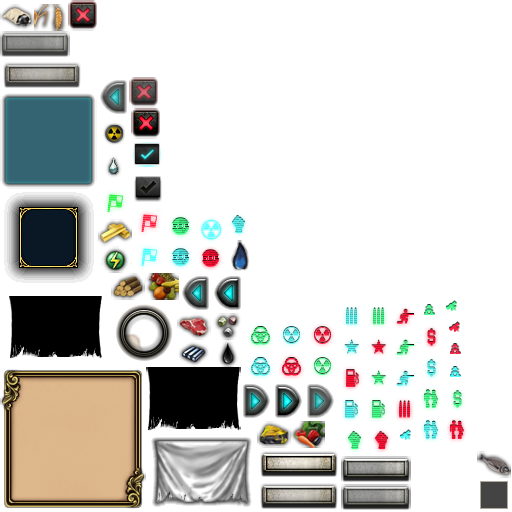
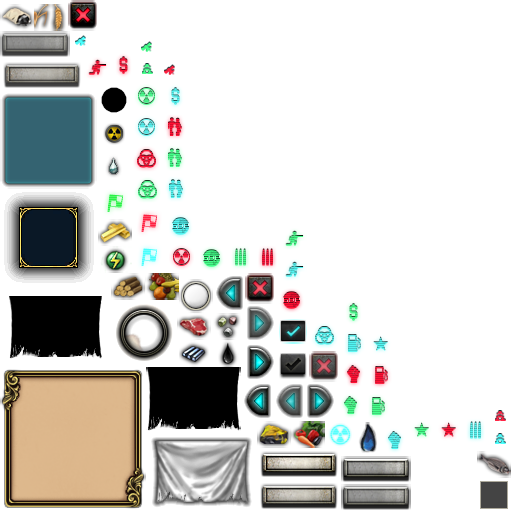
feat : new flag mini overlay
Add a new flag overlay, refresh the main atlas.

Use the new overlay in the province panel to show the countries core of
a province.

Changed region(s): [[0.1562, 0.0625, 1.0, 0.9062], [0.125, 0.0, 0.1875, 0.0938]]

diff --git a/core/src/main/java/com/populaire/projetguerrefroide/ui/ProvincePanel.java b/core/src/main/java/com/populaire/projetguerrefroide/ui/ProvincePanel.java
@@ -8,8 +8,10 @@ import com.badlogic.gdx.scenes.scene2d.ui.*;
 import com.badlogic.gdx.scenes.scene2d.utils.ClickListener;
 import com.badlogic.gdx.scenes.scene2d.utils.Drawable;
 import com.badlogic.gdx.scenes.scene2d.utils.TextureRegionDrawable;
+import com.github.tommyettinger.ds.ObjectList;
 import com.populaire.projetguerrefroide.service.LabelStylePool;
 
+import java.util.List;
 import java.util.Map;
 
 public class ProvincePanel extends Table {
@@ -27,6 +29,7 @@ public class ProvincePanel extends Table {
     private Label incomeRegion;
     private Label industryRegion;
     private FlagImage flagImage;
+    private List<FlagImage> countriesCoreFlagImages;
 
     public ProvincePanel(Skin skin, Skin skinUi, Skin skinFlags, LabelStylePool labelStylePool, Map<String, String> localisation) {
         this.skin = skin;
@@ -37,7 +40,8 @@ public class ProvincePanel extends Table {
         this.setBackground(background);
         this.setSize(background.getMinWidth(), background.getMinHeight());
         this.setHeader(skin, skinUi, labelStylePool);
-        this.setDataOverview(skin, skinUi, labelStylePool);
+        this.setDataOverview(skin, labelStylePool);
+        this.setCountriesCoreFlagImages();
     }
 
     private void setHeader(Skin skin, Skin skinUi, LabelStylePool labelStylePool) {
@@ -58,12 +62,7 @@ public class ProvincePanel extends Table {
         Label.LabelStyle labelStyleJockey24 = labelStylePool.getLabelStyle("jockey_24");
         this.provinceName = new Label("", labelStyleJockey24);
 
-        TextureRegion alphaFlag = skinUi.getRegion("shield_big");
-        TextureRegion overlayFlag = skinUi.getRegion("shield_big_overlay");
-        Pixmap defaultPixmapFlag = new Pixmap(64, 64, Pixmap.Format.RGBA8888);
-        TextureRegionDrawable defaultFlag = new TextureRegionDrawable(new Texture(defaultPixmapFlag));
-        defaultPixmapFlag.dispose();
-        this.flagImage = new FlagImage(defaultFlag, overlayFlag, alphaFlag);
+        this.flagImage = this.createFlagImage(skinUi, "shield_big", "shield_big_overlay", (short) 64, (short) 64);
 
         this.addActor(this.terrainImage);
         this.addActor(overlay);
@@ -72,7 +71,7 @@ public class ProvincePanel extends Table {
         this.addActor(this.flagImage);
     }
 
-    private void setDataOverview(Skin skin, Skin skinUi, LabelStylePool labelStylePool) {
+    private void setDataOverview(Skin skin, LabelStylePool labelStylePool) {
         Table dataOverview = new Table();
         Drawable background = skin.getDrawable("bg_province_paper");
         dataOverview.setBackground(background);
@@ -108,10 +107,31 @@ public class ProvincePanel extends Table {
         this.addActor(dataOverview);
     }
 
+    private void setCountriesCoreFlagImages() {
+        this.countriesCoreFlagImages = new ObjectList<>();
+        int x = 35;
+        int y = 190;
+        for(int i = 0; i < 5; i++) {
+            FlagImage flagImage = this.createFlagImage(this.skinUi, "minimask", "minishield", (short) 32, (short) 32);
+            flagImage.setPosition(x, y);
+            this.countriesCoreFlagImages.add(flagImage);
+            x += 38;
+        }
+    }
+
     private Image createImage(Skin skin, String drawableName, float x, float y) {
         Image image = new Image(skin.getDrawable(drawableName));
         image.setPosition(x, y);
         return image;
+    }
+
+    private FlagImage createFlagImage(Skin skinUi, String alphaFlagName, String overlayFlagName, short height, short width) {
+        TextureRegion alphaFlag = skinUi.getRegion(alphaFlagName);
+        TextureRegion overlayFlag = skinUi.getRegion(overlayFlagName);
+        Pixmap defaultPixmapFlag = new Pixmap(width, height, Pixmap.Format.RGBA8888);
+        TextureRegionDrawable defaultFlag = new TextureRegionDrawable(new Texture(defaultPixmapFlag));
+        defaultPixmapFlag.dispose();
+        return new FlagImage(defaultFlag, overlayFlag, alphaFlag);
     }
 
     public void setResourceImage(String name) {
@@ -169,7 +189,14 @@ public class ProvincePanel extends Table {
         this.flagImage.setPosition(36, 430);
     }
 
-    public void dispose() {
-        this.flagImage.dispose();
+    public void setFlagCountriesCore(List<String> countriesCore) {
+        for(int i = 0; i < this.countriesCoreFlagImages.size(); i++) {
+            if(i < countriesCore.size()) {
+                this.countriesCoreFlagImages.get(i).setFlag(this.skinFlags.getRegion(countriesCore.get(i)));
+                this.addActor(this.countriesCoreFlagImages.get(i));
+            } else {
+                this.countriesCoreFlagImages.get(i).remove();
+            }
+        }
     }
 }

diff --git a/core/src/main/java/com/populaire/projetguerrefroide/service/WorldService.java b/core/src/main/java/com/populaire/projetguerrefroide/service/WorldService.java
@@ -4,16 +4,20 @@ import com.badlogic.gdx.graphics.OrthographicCamera;
 import com.badlogic.gdx.graphics.g2d.SpriteBatch;
 import com.badlogic.gdx.utils.async.AsyncExecutor;
 import com.github.tommyettinger.ds.ObjectIntMap;
+import com.github.tommyettinger.ds.ObjectList;
 import com.populaire.projetguerrefroide.data.DataManager;
 import com.populaire.projetguerrefroide.economy.good.ResourceGood;
 import com.populaire.projetguerrefroide.entity.GameEntities;
 import com.populaire.projetguerrefroide.entity.Government;
 import com.populaire.projetguerrefroide.entity.Minister;
+import com.populaire.projetguerrefroide.map.Country;
 import com.populaire.projetguerrefroide.map.LandProvince;
 import com.populaire.projetguerrefroide.map.MapMode;
 import com.populaire.projetguerrefroide.map.World;
 import com.populaire.projetguerrefroide.util.Named;
 import com.populaire.projetguerrefroide.util.ValueFormatter;
+
+import java.util.List;
 
 public class WorldService {
     private final AsyncExecutor asyncExecutor;
@@ -21,11 +25,13 @@ public class WorldService {
     private GameEntities gameEntities;
     private World world;
     private final ObjectIntMap<String> elementPercentages;
+    private final List<String> elements;
 
     public WorldService() {
         this.asyncExecutor = new AsyncExecutor(2);;
         this.dataManager = new DataManager();
         this.elementPercentages = new ObjectIntMap<>();
+        this.elements = new ObjectList<>();
     }
 
     public void createWorld() {
@@ -137,6 +143,15 @@ public class WorldService {
         LandProvince province = this.world.getProvince(x, y);
         int amountAdults = province.getPopulation().getAmountAdults();
         return this.calculatePercentageDistributionFromProvinceData(province.getPopulation().getReligions(), amountAdults);
+    }
+
+    public List<String> getCountriesCoreOfSelectedProvince() {
+        this.elements.clear();
+        for(Country country : this.world.getSelectedProvince().getCountriesCore()) {
+            this.elements.add(country.getId());
+        }
+
+        return this.elements;
     }
 
     public <E extends Named> ObjectIntMap<String> calculatePercentageDistributionFromProvinceData(ObjectIntMap<E> elements, int amountAdults) {

diff --git a/core/src/main/java/com/populaire/projetguerrefroide/screen/GameScreen.java b/core/src/main/java/com/populaire/projetguerrefroide/screen/GameScreen.java
@@ -7,7 +7,6 @@ import com.badlogic.gdx.assets.AssetManager;
 import com.badlogic.gdx.graphics.GL32;
 import com.badlogic.gdx.graphics.OrthographicCamera;
 import com.badlogic.gdx.graphics.g2d.SpriteBatch;
-import com.badlogic.gdx.graphics.g2d.TextureAtlas;
 import com.badlogic.gdx.scenes.scene2d.Actor;
 import com.badlogic.gdx.scenes.scene2d.Stage;
 import com.badlogic.gdx.scenes.scene2d.Touchable;
@@ -276,6 +275,7 @@ public class GameScreen implements Screen, GameInputListener, MainMenuInGameList
         this.provincePanel.setIncomeRegion(0);
         this.provincePanel.setIndustryRegion(this.worldService.getNumberIndustryRegionOfSelectedProvince());
         this.provincePanel.setFlagImage(this.worldService.getCountryIdOfSelectedProvince());
+        this.provincePanel.setFlagCountriesCore(this.worldService.getCountriesCoreOfSelectedProvince());
         this.stage.addActor(this.provincePanel);
     }
 
